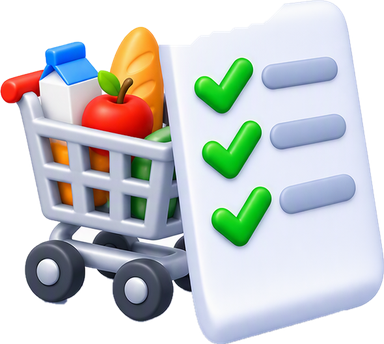
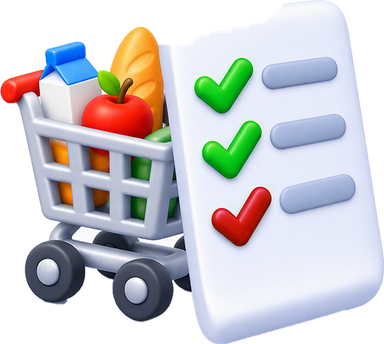
Images Préparer sans coches, Courses avec une coche rouge ; Accueil ajusté ; groupes de listes avec les images Emplettes [apk]
Claude-Session: https://claude.ai/code/session_01KFaY6PJWm9LRitQA9aQjkj

Changed region(s): [[0.5312, 0.5233, 0.7188, 0.7267]]

diff --git a/lib/ecrans/accueil.dart b/lib/ecrans/accueil.dart
@@ -153,14 +153,18 @@ class _EnTetePhoto extends StatelessWidget {
                       crossAxisAlignment: CrossAxisAlignment.start,
                       children: [
                         // 03/11/2026 (Aristide) : l'image d'Emplettes à la place de « Bonjour ! », le texte à sa droite en plus petit.
-                        Row(children: [
+                        // Le bas du texte cadré sur le bas de l'image.
+                        Row(crossAxisAlignment: CrossAxisAlignment.end, children: [
                           const ImageEmplettes('complet', key: ValueKey('accueil-emplettes'), taille: 96),
                           const SizedBox(width: 14),
                           Expanded(
-                            child: Column(crossAxisAlignment: CrossAxisAlignment.start, children: [
+                            child: Padding(
+                              padding: const EdgeInsets.only(bottom: 6),
+                              child: Column(crossAxisAlignment: CrossAxisAlignment.start, children: [
                               Text('Bonjour !', style: _surPhoto(Charte.texte(22, gras: true, couleur: Charte.blanc))),
                               Text('Prêt(e) pour vos courses ?', style: _surPhoto(Charte.texte(14, couleur: Charte.blanc))),
-                            ]),
+                              ]),
+                            ),
                           ),
                         ]),
                       ],
@@ -168,13 +172,7 @@ class _EnTetePhoto extends StatelessWidget {
                   ),
                   // Place toujours réservée : la barre d'ouverture n'agrandit pas la photo (02/11/2026, Aristide).
                   const SizedBox(height: 30, child: BarreOuverture()),
-                  Container(
-                    constraints: const BoxConstraints(minHeight: 36),
-                    alignment: Alignment.centerLeft,
-                    padding: const EdgeInsets.symmetric(horizontal: 18),
-                    decoration: const BoxDecoration(border: Border(top: BorderSide(color: Color(0x55FFFFFF)))),
-                    child: Text('COMMENT ÇA MARCHE', style: _surPhoto(Charte.texte(15, gras: true, couleur: Charte.blanc, espacement: 0.8))),
-                  ),
+                  // 03/11/2026 (Aristide) : plus de titre « Comment ça marche » ni de trait au-dessus.
                   const _Etapes(),
                 ],
               ),

diff --git a/lib/composants/composants.dart b/lib/composants/composants.dart
@@ -691,7 +691,12 @@ class GroupeRetractable extends StatelessWidget {
   static const _debord = 10.0;
 
   Widget _construire(BuildContext context, bool ouvert) {
-    final signe = image != null ? Pictogramme(image!, taille: 46) : (icone != null ? Icone(icone, size: 46) : null);
+    // 03/11/2026 (Aristide) : les groupes de listes à préparer et à faire prennent les images d'Emplettes.
+    final signe = image != null
+        ? Pictogramme(image!, taille: 46)
+        : icone == Icons.checklist || icone == Icons.shopping_cart_outlined
+            ? ImageEmplettes(ImageEmplettes.pourIcone(icone), taille: 46)
+            : (icone != null ? Icone(icone, size: 46) : null);
     // 01/11/2026 (Aristide) : l'icône qui déborde vers le bas reste au premier plan, par-dessus la ligne
     // suivante ; replié, le groupe laisse la place de ce débord.
     return Stack(clipBehavior: Clip.none, children: [

diff --git a/lib/ecrans/coquille.dart b/lib/ecrans/coquille.dart
@@ -70,8 +70,8 @@ class BarreOnglets extends StatelessWidget {
                         Positioned(
                             top: 0,
                             child: i == 3
-                                ? Icone(entrees[i].$1, size: 52, color: Charte.cadre)
-                                : ImageEmplettes(i == 0 ? 'complet' : ImageEmplettes.pourIcone(entrees[i].$1), taille: 54)),
+                                ? Icone(entrees[i].$1, size: 56, color: Charte.cadre)
+                                : ImageEmplettes(i == 0 ? 'complet' : ImageEmplettes.pourIcone(entrees[i].$1), taille: 60)),
                         Positioned(
                           bottom: 1,
                           child: Text(entrees[i].$2,

diff --git a/test/widget_test.dart b/test/widget_test.dart
@@ -484,7 +484,7 @@ void main() {
     testWidgets('10. accueil : comment ça marche, et ce qui est en cours à reprendre', (tester) async {
       await _lancer(tester);
       expect(find.text('Bonjour !'), findsOneWidget);
-      expect(find.text('COMMENT ÇA MARCHE'), findsOneWidget);
+      expect(find.text('Je prépare\nma liste'), findsOneWidget, reason: 'les étapes de « comment ça marche »');
       expect(find.text('EN PRÉPARATION'), findsOneWidget);
       expect(find.text('À FAIRE'), findsOneWidget, reason: 'les listes prêtes');
       await _ciblesTactiles(tester);

diff --git a/lib/theme.dart b/lib/theme.dart
@@ -135,7 +135,7 @@ class Charte {
   static const double barreNavigation = 64;
   static const double enTeteNiveau = 52;
   static const double sousOnglets = 44;
-  static const double barreOnglets = 76;
+  static const double barreOnglets = 80;
   static const double puce = 36;
   static const double bouton = 48;
   static const double selecteurQuantite = 34;
